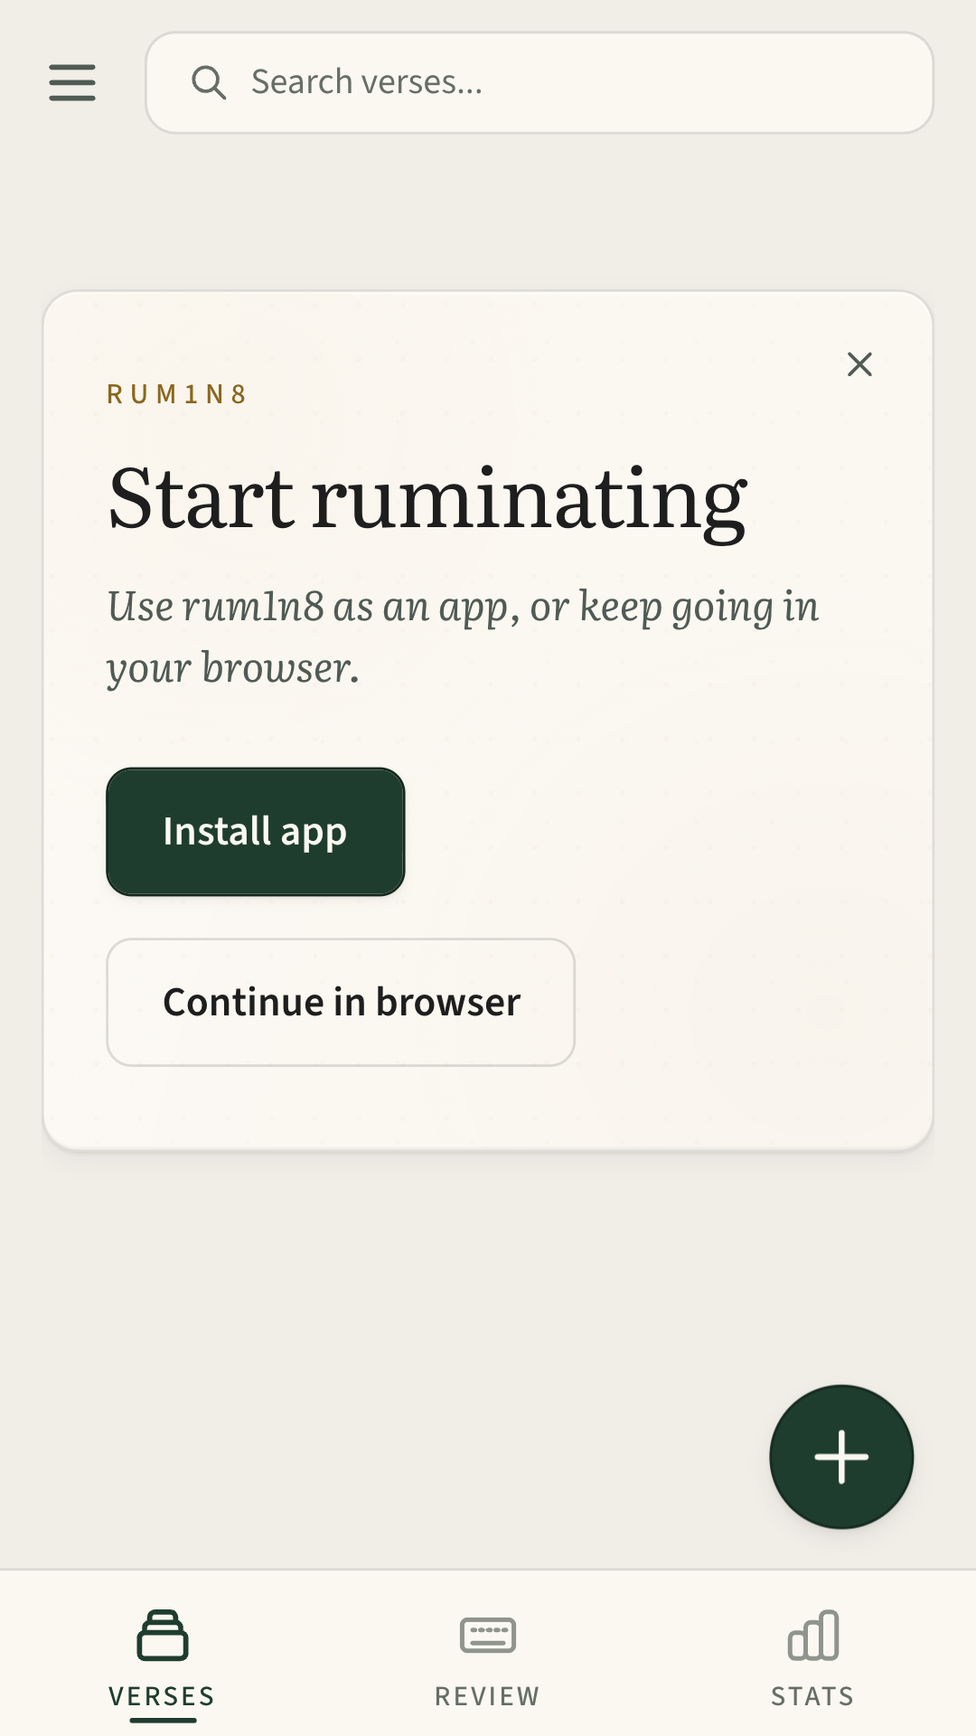
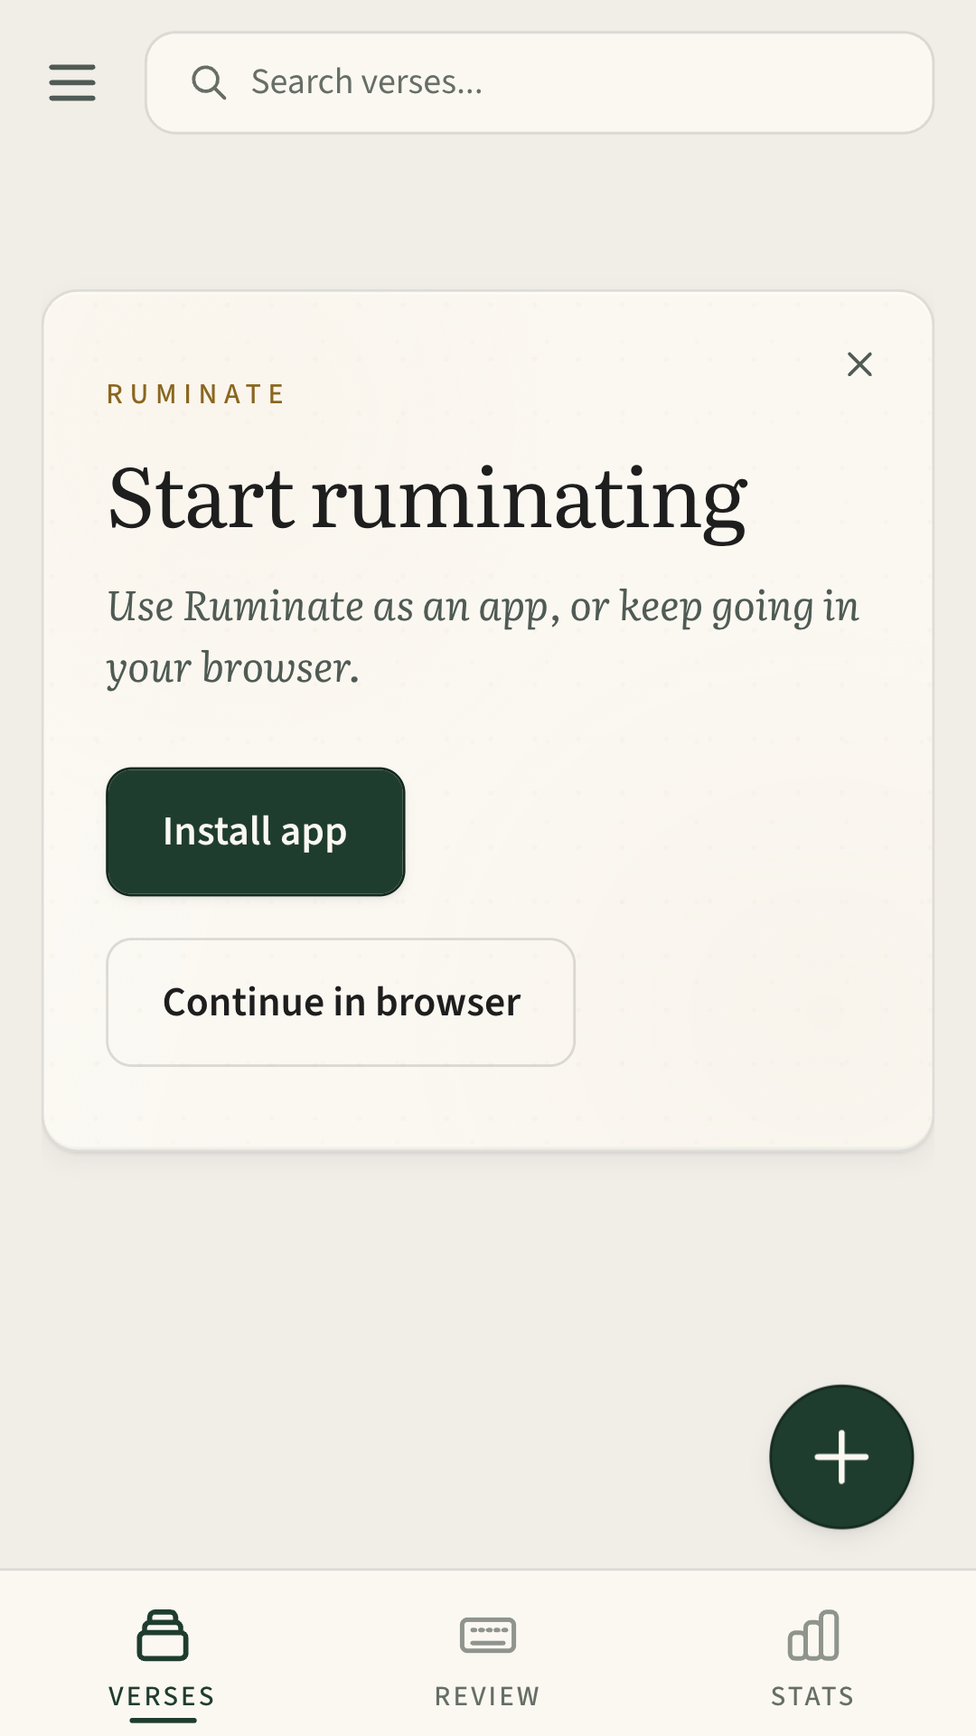
feat: rebrand app as Ruminate

Changed region(s): [[0.1833, 0.3438, 0.8861, 0.375], [0.1833, 0.2188, 0.275, 0.25]]

diff --git a/privacy/index.html b/privacy/index.html
@@ -242,27 +242,27 @@
   <header class="site-header">
     <a class="brand" href="/">
       <span class="brand__mark">r</span>
-      <span class="brand__name">rum1n8</span>
+      <span class="brand__name">Ruminate</span>
     </a>
   </header>
 
   <main class="page-body">
     <p class="page-label">Legal</p>
     <h1>Privacy Policy</h1>
-    <p class="effective">Effective date: March 3, 2026</p>
+    <p class="effective">Effective date: September 15, 2026</p>
 
-    <p>rum1n8 is an open-source Bible memory app built with privacy and data ownership as core priorities. This policy explains how your data is handled.</p>
+    <p>Ruminate is an open-source Bible memory app built with privacy and data ownership as core priorities. This policy explains how your data is handled.</p>
 
     <hr class="divider">
 
     <h2>Data Storage</h2>
-    <p>All your data — verses, collections, memorization progress, and settings — is stored locally on your device using your browser's localStorage. No data is sent to or stored on any rum1n8 server. The app is a static website with no backend database.</p>
+    <p>All your data — verses, collections, memorization progress, and settings — is stored locally on your device using your browser's localStorage. No data is sent to or stored on any Ruminate server. The app is a static website with no backend database.</p>
 
     <h2>Sync Providers (Optional)</h2>
     <p>You may optionally configure a sync provider to keep your data in sync across devices. Sync is entirely opt-in and disabled by default.</p>
     <ul>
-      <li><strong>WebDAV:</strong> Your data is synced directly between your browser and your own WebDAV server. rum1n8 does not have access to your WebDAV credentials or data.</li>
-      <li><strong>Google Drive:</strong> If you choose to sign in with Google, rum1n8 uses the <code>drive.file</code> scope, which only allows access to files that the app itself creates. rum1n8 cannot read, modify, or delete any other files in your Google Drive. Your data is stored in a <code>rum1n8</code> folder in your Drive. No Google tracking scripts or SDKs are loaded — authentication uses a standard OAuth redirect and direct API calls.</li>
+      <li><strong>WebDAV:</strong> Your data is synced directly between your browser and your own WebDAV server. Ruminate does not have access to your WebDAV credentials or data.</li>
+      <li><strong>Google Drive:</strong> If you choose to sign in with Google, Ruminate uses the <code>drive.file</code> scope, which only allows access to files that the app itself creates. Ruminate cannot read, modify, or delete any other files in your Google Drive. Your data is stored in a <code>rum1n8</code> folder in your Drive; this folder name is retained as a compatibility identifier. No Google tracking scripts or SDKs are loaded — authentication uses a standard OAuth redirect and direct API calls.</li>
     </ul>
 
     <!--ANALYTICS_SECTION_START-->
@@ -279,13 +279,13 @@
     <!--ANALYTICS_SECTION_END-->
 
     <h2>Data You Control</h2>
-    <p>You can export all your data at any time using the Backup &amp; Restore feature. You can also delete all app data by clearing your browser's site data. If you use Google Drive sync, you can revoke access at any time from your <a href="https://myaccount.google.com/permissions" target="_blank" rel="noopener noreferrer">Google Account permissions</a> and delete the rum1n8 folder from your Drive.</p>
+    <p>You can export all your data at any time using the Backup &amp; Restore feature. You can also delete all app data by clearing your browser's site data. If you use Google Drive sync, you can revoke access at any time from your <a href="https://myaccount.google.com/permissions" target="_blank" rel="noopener noreferrer">Google Account permissions</a> and delete the <code>rum1n8</code> folder from your Drive.</p>
 
     <h2>Children's Privacy</h2>
-    <p>rum1n8 does not knowingly collect any personal information from anyone, including children under 13. The app has no user accounts, registration, or data collection mechanisms.</p>
+    <p>Ruminate does not knowingly collect any personal information from anyone, including children under 13. The app has no user accounts, registration, or data collection mechanisms.</p>
 
     <h2>Changes to This Policy</h2>
-    <p>If this policy is updated, the changes will be reflected on this page with an updated effective date. Since rum1n8 does not collect email addresses, users are encouraged to review this policy periodically.</p>
+    <p>If this policy is updated, the changes will be reflected on this page with an updated effective date. Since Ruminate does not collect email addresses, users are encouraged to review this policy periodically.</p>
 
     <h2>Contact</h2>
     <p>For questions about this privacy policy, please open an issue on the <a href="https://github.com/timunrau/rum1n8" target="_blank" rel="noopener noreferrer">GitHub repository</a>.</p>

diff --git a/src/App.vue b/src/App.vue
@@ -324,7 +324,7 @@
         <div class="px-6 pt-10 pb-4" style="padding-top: max(2.5rem, calc(env(safe-area-inset-top) + 1rem));">
           <div class="flex items-center gap-3">
             <BrandMark size="sm" />
-            <span class="font-serif text-2xl leading-none tracking-tight text-text-primary">rum1n8</span>
+            <span class="font-serif text-2xl leading-none tracking-tight text-text-primary">Ruminate</span>
           </div>
         </div>
         <!-- Settings items -->
@@ -1102,10 +1102,10 @@
                 <path stroke-linecap="round" stroke-linejoin="round" stroke-width="2" d="M6 18L18 6M6 6l12 12" />
               </svg>
             </button>
-            <p class="hero-onboarding__eyebrow">rum1n8</p>
+            <p class="hero-onboarding__eyebrow">Ruminate</p>
             <h2 class="hero-onboarding__title">Start ruminating</h2>
             <p class="hero-onboarding__subtitle">
-              {{ shouldShowIOSInstallFirstPrompt ? 'Use rum1n8 as an app, or keep going in your browser.' : 'Choose a verse to get started.' }}
+              {{ shouldShowIOSInstallFirstPrompt ? 'Use Ruminate as an app, or keep going in your browser.' : 'Choose a verse to get started.' }}
             </p>
             <div class="mt-7 flex flex-wrap items-center gap-4">
               <PrimaryButton
@@ -1131,7 +1131,7 @@
             >
               <p class="text-sm font-semibold text-status-info-text">Looking for verses from Safari?</p>
               <p class="mt-1 text-sm leading-6 text-status-info-text">
-                Set up sync here too, and rum1n8 will bring them into the Home Screen app.
+                Set up sync here too, and Ruminate will bring them into the Home Screen app.
               </p>
               <button
                 type="button"
@@ -1156,7 +1156,7 @@
             >
               <p class="text-sm font-semibold text-status-info-text">Looking for verses from Safari?</p>
               <p class="mt-1 text-sm leading-6 text-status-info-text">
-                Set up sync here too, and rum1n8 will bring them into the Home Screen app.
+                Set up sync here too, and Ruminate will bring them into the Home Screen app.
               </p>
               <button
                 type="button"
@@ -2337,7 +2337,7 @@ Philippians 2:3,"Value others above yourselves",NIV,Core Values/Humility,30,60</
       >
         <div class="space-y-4">
           <p class="text-sm text-text-secondary">
-            Turn on sync before installing. If the Home Screen app opens empty, set up sync there too and rum1n8 will bring your verses in.
+            Turn on sync before installing. If the Home Screen app opens empty, set up sync there too and Ruminate will bring your verses in.
           </p>
           <div
             v-if="iosInstallBackupDownloaded"
@@ -7259,7 +7259,7 @@ export default {
       verse.content,
       formatVerseShareReference(verse),
       '',
-      'Shared from rum1n8',
+      'Shared from Ruminate',
       getMarketingPageUrl()
     ].join('\n')
 
@@ -9140,8 +9140,8 @@ export default {
 
       try {
         await navigator.share({
-          title: 'rum1n8',
-          text: 'Memorize Bible verses with rum1n8.',
+          title: 'Ruminate: Bible Memory',
+          text: 'Memorize Bible verses with Ruminate.',
           url: appUrl
         })
         shareSuccess.value = true
@@ -9180,7 +9180,7 @@ export default {
         const url = URL.createObjectURL(blob)
         
         const dateStr = new Date().toISOString().split('T')[0]
-        const filename = `rum1n8-backup-${dateStr}.json`
+        const filename = `ruminate-backup-${dateStr}.json`
         
         const link = document.createElement('a')
         link.href = url

diff --git a/build/vite-shared.js b/build/vite-shared.js
@@ -126,19 +126,23 @@ function serializeJsonForHtml(value) {
 
 export function buildSiteMetadata(env, mode = 'development') {
   const { appUrl, marketingUrl } = resolvePublicUrls(env, mode)
+  const websiteName = 'Ruminate: Bible Memory App'
+  const applicationName = 'Ruminate: Bible Memory'
+  const shortName = 'Ruminate'
 
   return {
-    productName: 'rum1n8',
-    title: 'rum1n8 - Bible Memory',
+    websiteName,
+    applicationName,
+    shortName,
     defaultDescription: 'A simple Bible memory app that gives you control of your data.',
-    memorizationBenefitsTitle: 'Memorization Is A Spiritual Life-Hack',
+    memorizationBenefitsTitle: `Memorization Is A Spiritual Life-Hack - ${websiteName}`,
     memorizationBenefitsDescription: "A short case for why Scripture memorization unlocks real growth in your walk with God.",
-    scriptureTipsTitle: 'Tips For Memorizing Scripture',
+    scriptureTipsTitle: `Tips For Memorizing Scripture - ${websiteName}`,
     scriptureTipsDescription: 'Practical tips for starting small, building a daily Scripture memorization habit, and reviewing consistently.',
-    bibleMemoryImportTitle: 'Import from BibleMemory.com',
+    bibleMemoryImportTitle: `Import from BibleMemory.com - ${websiteName}`,
     bibleMemoryImportDescription: 'Export your BibleMemory.com verses with a local bookmarklet, download a CSV, and import it into Ruminate.',
-    privacyTitle: 'Privacy Policy - rum1n8',
-    privacyDescription: 'How rum1n8 stores your data, handles optional sync, and respects your analytics preference.',
+    privacyTitle: `Privacy Policy - ${websiteName}`,
+    privacyDescription: 'How Ruminate stores your data, handles optional sync, and respects your analytics preference.',
     appUrl,
     marketingUrl,
     siteUrl: withoutTrailingSlash(marketingUrl),
@@ -149,7 +153,7 @@ export function buildSiteMetadata(env, mode = 'development') {
     bibleMemoryImportPath: '/import/biblememory/',
     privacyPath: '/privacy/',
     socialPreviewImagePath: '/marketing/og-card.png',
-    socialPreviewImageAlt: 'rum1n8 app preview',
+    socialPreviewImageAlt: 'Ruminate: Bible Memory App preview',
     screenshotPaths: [
       '/marketing/screenshot-empty.png',
       '/marketing/screenshot-practice.png',
@@ -162,8 +166,8 @@ function buildJsonLd(metadata) {
   return {
     '@context': 'https://schema.org',
     '@type': 'SoftwareApplication',
-    name: metadata.title,
-    alternateName: metadata.productName,
+    name: metadata.websiteName,
+    alternateName: metadata.applicationName,
     description: metadata.defaultDescription,
     applicationCategory: 'EducationalApplication',
     operatingSystem: 'Web Browser',
@@ -211,7 +215,7 @@ function pageMetadata(metadata, page) {
   }
 
   return byPage[page] || {
-    title: page === 'app' ? `${metadata.productName} App` : metadata.title,
+    title: page === 'app' ? metadata.applicationName : metadata.websiteName,
     description: metadata.defaultDescription,
     path: '/',
   }
@@ -235,7 +239,7 @@ export function buildHtmlReplacements(metadata, page) {
         `<meta property="og:title" content="${escapeHtml(current.title)}" />`,
         `<meta property="og:description" content="${escapeHtml(current.description)}" />`,
         '<meta property="og:type" content="website" />',
-        `<meta property="og:site_name" content="${escapeHtml(metadata.productName)}" />`,
+        `<meta property="og:site_name" content="${escapeHtml(metadata.websiteName)}" />`,
         `<meta property="og:image" content="${escapeHtml(socialImageUrl)}" />`,
         `<meta property="og:image:alt" content="${escapeHtml(metadata.socialPreviewImageAlt)}" />`,
         '<meta name="twitter:card" content="summary_large_image" />',

diff --git a/index.html b/index.html
@@ -41,7 +41,7 @@
         <div class="site-header__inner">
           <a class="brand" href="/">
             <span class="brand__mark">r</span>
-            <span class="brand__name">rum1n8</span>
+            <span class="brand__name">Ruminate</span>
           </a>
         </div>
       </header>
@@ -66,7 +66,7 @@
             <div class="phone-frame">
               <picture>
                 <source srcset="/marketing/screenshot-practice-dark.png" media="(prefers-color-scheme: dark)" />
-                <img src="/marketing/screenshot-practice.png" alt="Memorize mode with first-letter typing in rum1n8" />
+                <img src="/marketing/screenshot-practice.png" alt="Memorize mode with first-letter typing in Ruminate" />
               </picture>
             </div>
           </div>
@@ -117,7 +117,7 @@
                 </picture>
               </div>
               <h3>Review daily</h3>
-              <p>rum1n8 surfaces each verse at the right time based on how well you know it.</p>
+              <p>Ruminate surfaces each verse at the right time based on how well you know it.</p>
             </article>
           </div>
         </section>
@@ -140,8 +140,8 @@
         </section>
 
         <section class="section section--reasons" id="why">
-          <h2>Why rum1n8 exists</h2>
-          <p class="section__lede">I built rum1n8 because existing Bible memory apps got in the way more than they helped — too many features, too many limits, and no way to export your data.</p>
+          <h2>Why Ruminate exists</h2>
+          <p class="section__lede">I built Ruminate because existing Bible memory apps got in the way more than they helped — too many features, too many limits, and no way to export your data.</p>
 
           <div class="feature-list">
             <article class="feature">

diff --git a/app/index.html b/app/index.html
@@ -24,9 +24,9 @@
     <noscript>
       <main style="min-height:100vh;padding:2rem;background:#f7f3ea;color:#1f2937;font-family:'Literata','Noto Serif',Georgia,Cambria,'Times New Roman',Times,serif;">
         <section style="max-width:42rem;margin:0 auto;padding:2rem;border:1px solid rgba(148,163,184,.22);border-radius:1.75rem;background:rgba(255,255,255,.92);box-shadow:0 22px 50px rgba(15,23,42,.08);">
-          <p style="margin:0 0 .75rem;font-family:'Source Sans 3','Noto Sans','Segoe UI',Roboto,'Helvetica Neue',Arial,sans-serif;font-size:.75rem;font-weight:700;letter-spacing:.22em;text-transform:uppercase;color:#0f766e;">rum1n8</p>
+          <p style="margin:0 0 .75rem;font-family:'Source Sans 3','Noto Sans','Segoe UI',Roboto,'Helvetica Neue',Arial,sans-serif;font-size:.75rem;font-weight:700;letter-spacing:.22em;text-transform:uppercase;color:#0f766e;">Ruminate</p>
           <h1 style="margin:0;font-size:clamp(2rem,4vw,3.25rem);line-height:1.05;color:#111827;">JavaScript is required to use the app</h1>
-          <p style="margin:1rem 0 0;font-family:'Source Sans 3','Noto Sans','Segoe UI',Roboto,'Helvetica Neue',Arial,sans-serif;font-size:1.05rem;line-height:1.7;color:#374151;">The app itself lives here at <strong>/app</strong>. If you want the public site instead, open <a href="%MARKETING_URL%" style="color:#305fb8;">rum1n8 home</a>.</p>
+          <p style="margin:1rem 0 0;font-family:'Source Sans 3','Noto Sans','Segoe UI',Roboto,'Helvetica Neue',Arial,sans-serif;font-size:1.05rem;line-height:1.7;color:#374151;">The app itself lives here at <strong>/app</strong>. If you want the public site instead, open <a href="%MARKETING_URL%" style="color:#305fb8;">Ruminate home</a>.</p>
         </section>
       </main>
     </noscript>

diff --git a/e2e/specs/backup-restore.spec.ts b/e2e/specs/backup-restore.spec.ts
@@ -1,4 +1,5 @@
 import { test, expect } from '@playwright/test'
+import { readFileSync } from 'node:fs'
 import path from 'path'
 import { fileURLToPath } from 'url'
 import { clearAppStorage } from '../helpers/storage'
@@ -22,7 +23,7 @@ test('download backup: Settings -> Backup/Import -> Download -> file download tr
   const downloadPromise = page.waitForEvent('download')
   await page.getByRole('button', { name: /Download Backup/i }).click()
   const download = await downloadPromise
-  expect(download.suggestedFilename()).toMatch(/rum1n8-backup.*\.json/)
+  expect(download.suggestedFilename()).toMatch(/ruminate-backup.*\.json/)
 })
 
 test('restore: Settings -> choose backup file -> confirm -> data replaced', async ({ page }) => {
@@ -31,7 +32,11 @@ test('restore: Settings -> choose backup file -> confirm -> data replaced', asyn
 
   await expect(page.getByTestId('modal-backup-restore')).toBeVisible()
   const fileInput = page.locator('#backup-file-input')
-  await fileInput.setInputFiles(path.join(__dirname, '../fixtures/sample-backup.json'))
+  await fileInput.setInputFiles({
+    name: 'rum1n8-backup-legacy.json',
+    mimeType: 'application/json',
+    buffer: readFileSync(path.join(__dirname, '../fixtures/sample-backup.json')),
+  })
 
   await expect(page.getByTestId('modal-restore-backup-confirm')).toBeVisible()
   await page.getByTestId('modal-restore-backup-confirm').getByRole('button', { name: 'Restore' }).click()

diff --git a/tips-for-memorizing-scripture/index.html b/tips-for-memorizing-scripture/index.html
@@ -39,9 +39,9 @@
 
       <header class="site-header site-header--essay">
         <div class="site-header__inner">
-          <a class="brand" href="/" aria-label="rum1n8 home">
+          <a class="brand" href="/" aria-label="Ruminate home">
             <span class="brand__mark">r</span>
-            <span class="brand__name">rum1n8</span>
+            <span class="brand__name">Ruminate</span>
           </a>
         </div>
       </header>
@@ -110,7 +110,7 @@
               <p class="essay-section__number">07</p>
               <h2>Use a tool</h2>
               <p>A good system makes the habit easier.</p>
-              <p>rum1n8 makes it easy to keep track of your verses and tells you what to review next.</p>
+              <p>Ruminate makes it easy to keep track of your verses and tells you what to review next.</p>
             </section>
 
             <section class="essay-section" id="review">
@@ -139,7 +139,7 @@
             <section class="essay-section essay-section--final" id="start-today">
               <h2>Start Today</h2>
               <p>Just do one verse.</p>
-              <p>Add it to rum1n8. Review it today. Come back tomorrow.</p>
+              <p>Add it to Ruminate. Review it today. Come back tomorrow.</p>
               <p class="essay__action">
                 <a class="button button--primary" data-app-link href="%APP_URL%">
                   <span data-app-link-label>Start memorizing</span>

diff --git a/build/vite-shared.test.js b/build/vite-shared.test.js
@@ -28,10 +28,16 @@ describe('public URL validation', () => {
 describe('marketing metadata', () => {
   const metadata = buildSiteMetadata(productionEnv, 'production')
 
+  it('keeps website, application, and compact names distinct', () => {
+    expect(metadata.websiteName).toBe('Ruminate: Bible Memory App')
+    expect(metadata.applicationName).toBe('Ruminate: Bible Memory')
+    expect(metadata.shortName).toBe('Ruminate')
+  })
+
   it('uses a unique canonical URL and description for Privacy', () => {
     const replacements = buildHtmlReplacements(metadata, 'privacy')
 
-    expect(replacements['%PAGE_TITLE%']).toBe('Privacy Policy - rum1n8')
+    expect(replacements['%PAGE_TITLE%']).toBe('Privacy Policy - Ruminate: Bible Memory App')
     expect(replacements['%PAGE_DESCRIPTION%']).toContain('analytics preference')
     expect(replacements['%HEAD_CANONICAL_TAGS%']).toContain('https://remember.example/privacy/')
     expect(replacements['%HEAD_SOCIAL_TAGS%']).toContain('twitter:card')
@@ -43,5 +49,6 @@ describe('marketing metadata', () => {
     expect(replacements['%META_ROBOTS%']).toBe('noindex,nofollow')
     expect(replacements['%HEAD_CANONICAL_TAGS%']).toBe('')
     expect(replacements['%HEAD_SOCIAL_TAGS%']).toBe('')
+    expect(replacements['%PAGE_TITLE%']).toBe('Ruminate: Bible Memory')
   })
 })

diff --git a/memorization-is-a-spiritual-life-hack/index.html b/memorization-is-a-spiritual-life-hack/index.html
@@ -38,9 +38,9 @@
       </div>
       <header class="site-header site-header--essay">
         <div class="site-header__inner">
-          <a class="brand" href="/" aria-label="rum1n8 home">
+          <a class="brand" href="/" aria-label="Ruminate home">
             <span class="brand__mark">r</span>
-            <span class="brand__name">rum1n8</span>
+            <span class="brand__name">Ruminate</span>
           </a>
         </div>
       </header>
@@ -114,7 +114,7 @@
               <h2>Just Do One Verse</h2>
               <p>You don't need a complicated system.</p>
               <p>Start with one verse. Practice for a few minutes. Come back tomorrow.</p>
-              <p>rum1n8 makes it easy.</p>
+              <p>Ruminate makes it easy.</p>
               <p class="essay__action">
                 <a class="button button--primary" data-app-link href="%APP_URL%">
                   <span data-app-link-label>Start memorizing</span>

diff --git a/e2e/specs/review.spec.ts b/e2e/specs/review.spec.ts
@@ -150,7 +150,7 @@ test('click verse -> enters review screen', async ({ page }) => {
   await expect(page.locator('#letter-input-review')).toBeFocused()
 })
 
-test('practice share button uses native share with version and rum1n8 footer', async ({ page }) => {
+test('practice share button uses native share with version and Ruminate footer', async ({ page }) => {
   await page.addInitScript(() => {
     Object.defineProperty(navigator, 'share', {
       configurable: true,
@@ -186,7 +186,7 @@ test('practice share button uses native share with version and rum1n8 footer', a
   expect(shared?.title).toBe('Psalm 23:1 (BSB)')
   expect(shared?.text).toContain('The LORD is my shepherd')
   expect(shared?.text).toContain('Psalm 23:1 (BSB)')
-  expect(shared?.text).toContain('Shared from rum1n8')
+  expect(shared?.text).toContain('Shared from Ruminate')
   expect(shared?.text).toContain('/')
 })
 

diff --git a/src/components/IOSInstallModal.vue b/src/components/IOSInstallModal.vue
@@ -8,7 +8,7 @@
         {{ isSafari ? 'Add to Home Screen' : 'Open in Safari to install' }}
       </h2>
       <p v-if="!isSafari" class="text-sm text-text-secondary mb-5">
-        Installation works best from Safari on iOS. Open this page in Safari, then add rum1n8 to your Home Screen.
+        Installation works best from Safari on iOS. Open this page in Safari, then add Ruminate to your Home Screen.
       </p>
 
       <ol class="space-y-5 mb-6">

diff --git a/import/biblememory/index.html b/import/biblememory/index.html
@@ -39,9 +39,9 @@
 
       <header class="site-header site-header--essay">
         <div class="site-header__inner">
-          <a class="brand" href="/" aria-label="rum1n8 home">
+          <a class="brand" href="/" aria-label="Ruminate home">
             <span class="brand__mark">r</span>
-            <span class="brand__name">rum1n8</span>
+            <span class="brand__name">Ruminate</span>
           </a>
         </div>
       </header>
